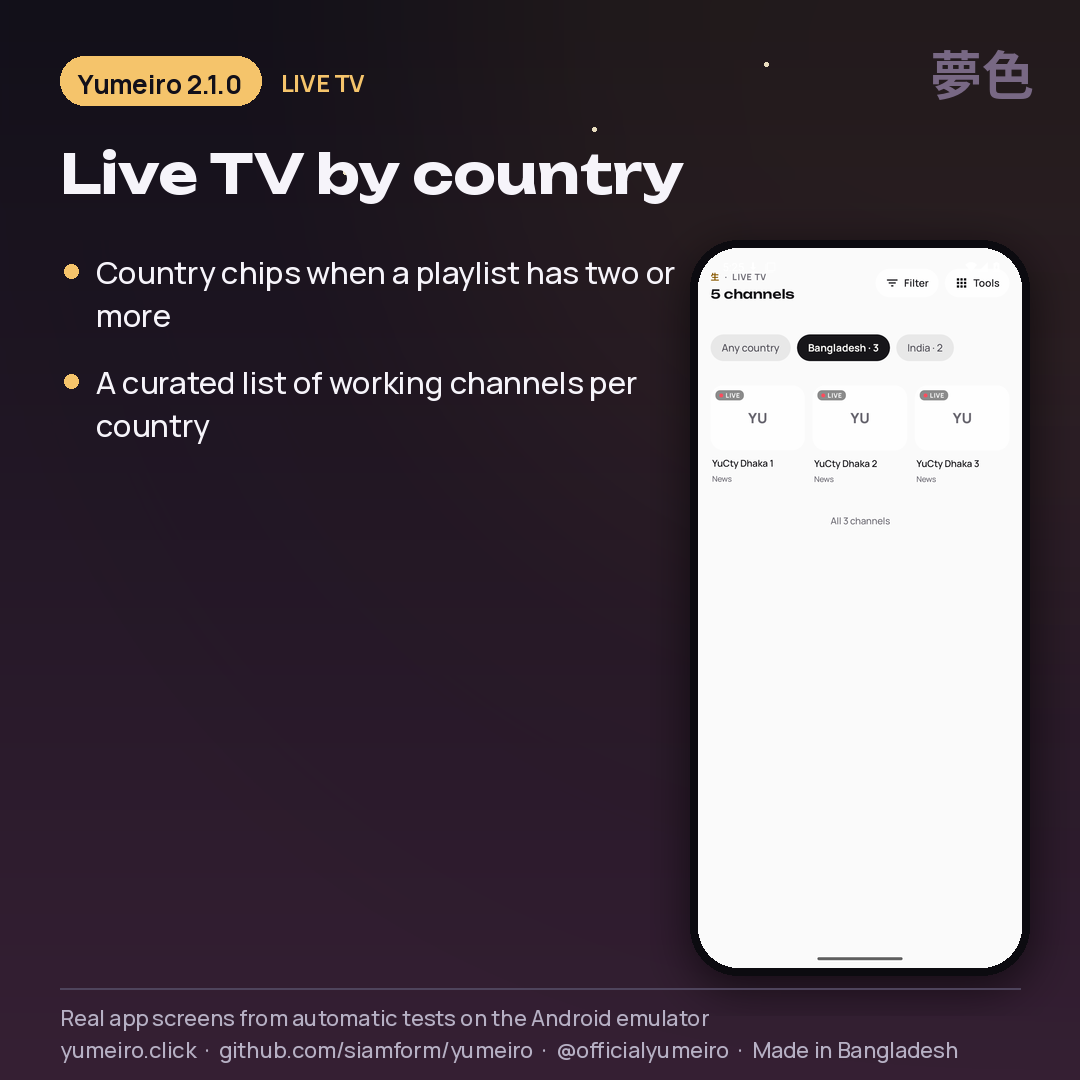
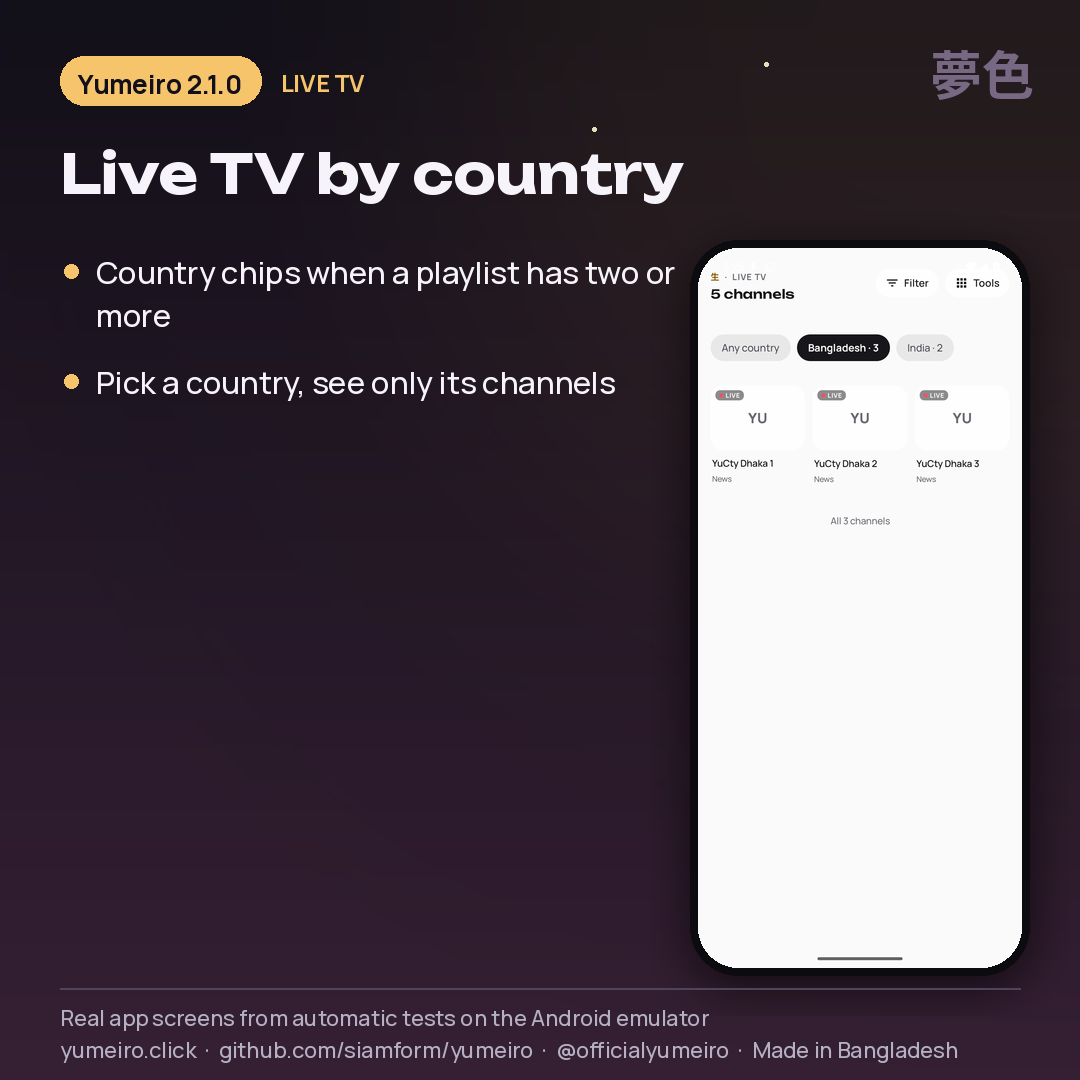
AUD-CLAIM-1/2: no curated Live TV or ABI-split claim in 2.1.0 notes, README and images
The curated per-country Live TV lists (E2) were never published, so they are
not in the app; the ABI split APKs (E3) are switched off. CHANGELOG.md, README
and the release image script now say only what ships; post-05 / square-05
bullet repainted. Audit findings AUD-CLAIM-1, AUD-CLAIM-2.

Changed region(s): [[0.0917, 0.3361, 0.5806, 0.4278]]

diff --git a/scripts/release_kit_210.py b/scripts/release_kit_210.py
@@ -181,7 +181,7 @@ P = [
     ("04-telegram", "Telegram", "Telegram has its own page",
      ["Add a public channel with @name or a t.me link", "TeraBox and DiskWala links in posts open in Yumeiro"], "telegram_page"),
     ("05-live-country", "Live TV", "Live TV by country",
-     ["Country chips when a playlist has two or more", "A curated list of working channels per country"], "live_country"),
+     ["Country chips when a playlist has two or more", "Pick a country, see only its channels"], "live_country"),
     ("06-profiles", "Profiles", "Every profile, really its own",
      ["Extensions, repositories, pins and reading per profile", "\"Forgot PIN\" uses security questions"], "whos_watching"),
     ("07-video", "Player", "Vertical player and a cleaner top bar",

diff --git a/docs/evidence/final/PER-COMMIT-2.1.0.md b/docs/evidence/final/PER-COMMIT-2.1.0.md
@@ -1,0 +1,251 @@
+# Per-commit list e47f450f (v2.0.0) .. dd4ae197 (audit start)
+
+Generated by the auditor from `git log` and `git show --name-only` (2026-11-22). 243 commits:
+{'code': 148, 'docs': 53, 'test': 42}. "code" = touches app/src/main, build files, workflows, server or scripts. Each code commit is matched to
+a ledger ID in docs/RELEASE-AUDIT-2.1.0.md section 3; this file is the raw list.
+
+| Commit | Date (UTC) | Subject | Kind | Code files | Test files | Doc files | IDs in subject |
+|---|---|---|---|---|---|---|---|
+| d072e4d8 | 2026-11-20 15:31 | fix(home): 18+ extension check no longer rebuilds the provider list per call (FREEZE-1) | code | 4 | 1 | 0 | FREEZE-1 |
+| c2966bde | 2026-11-20 16:07 | docs(handover): FREEZE-1 status, master-list audit, how to continue | docs | 0 | 0 | 4 | FREEZE-1 |
+| a22477d4 | 2026-11-20 16:14 | fix(manga): Continue reading and saved manga belong to the current profile (PROF-1) | code | 1 | 1 | 0 | PROF-1 |
+| 23558a22 | 2026-11-20 16:14 | feat(torrent): a raw info-hash becomes a magnet link (T-1) | code | 3 | 1 | 0 | T-1 |
+| a9da5356 | 2026-11-20 16:14 | docs(2.1.0): FREEZE-1 pass run, PROF-1 / T-1 rows, corrected S-1 and PIN-1 | docs | 0 | 0 | 3 | FREEZE-1, PIN-1, PROF-1, S-1 |
+| b59bb41b | 2026-11-20 16:15 | perf(extensions): the provider list is built once per change and shared (FREEZE-2) | code | 2 | 1 | 0 | FREEZE-2 |
+| 8c6e346c | 2026-11-20 16:17 | docs(evidence): 44771338763 superseded by 44771583525 | docs | 0 | 0 | 1 |  |
+| 08ff6e58 | 2026-11-20 16:17 | feat(manga): previous / next chapter and a next-chapter card in the reader (F-18) | code | 2 | 1 | 0 | F-18 |
+| e3536d8d | 2026-11-20 16:19 | feat(sites): Telegram and Websites are separate pages with their own entries (F-02 split) | code | 9 | 3 | 0 | F-02 |
+| 5a1c34f6 | 2026-11-20 16:21 | feat(live-tv): filter channels by country (master list: country filter) | code | 6 | 1 | 0 |  |
+| 1f08eebe | 2026-11-20 16:22 | feat(downloads): pick the quality in the download prompt (NF-2b quality picker) | code | 5 | 1 | 0 |  |
+| 74d608bd | 2026-11-20 16:24 | fix(yumix): remove the extra pinned-extension row from the feed (PIN-1) | code | 2 | 2 | 0 | PIN-1 |
+| 9a940f64 | 2026-11-20 16:24 | docs(2.1.0): ledger rows B-13..B-18, audit corrections (F-07, F-11, PIP-1), FREEZE-3 and B-3 findings | docs | 0 | 0 | 3 | B-13, B-18, B-3, F-07 |
+| ba87ce64 | 2026-11-20 16:27 | F-19: profile security questions replace the screen-lock bypass for Forgot PIN | code | 4 | 1 | 0 | F-19 |
+| 7c5896ee | 2026-11-20 16:28 | F-19 isolation: pinned extensions and Live TV playlist pins are per profile | code | 3 | 1 | 0 | F-19 |
+| 0fa711ce | 2026-11-20 16:29 | FREEZE-4: count Home / Yumix / Live TV draws into the freeze report trail | code | 6 | 1 | 0 | FREEZE-4 |
+| 3ec8a40c | 2026-11-20 16:30 | docs: ledger B-19..B-21, resume-here, handover for F-19 / FREEZE-4 | docs | 0 | 0 | 4 | B-19, B-21, F-19, FREEZE-4 |
+| bd3b4ca6 | 2026-11-20 16:31 | PIN-2: same extension name from two repositories shows both | code | 1 | 1 | 0 | PIN-2 |
+| a51d2bfb | 2026-11-20 16:31 | docs: PIN-2 fixed (B-22), resume-here | docs | 0 | 0 | 3 | B-22, PIN-2 |
+| ebebdb51 | 2026-11-20 16:32 | GATE-1: device test that fails on main-thread stalls with 300 providers | test | 0 | 1 | 0 | GATE-1 |
+| ab7cd874 | 2026-11-20 16:33 | RegexGuard: warm the new pattern holders off the main thread | code | 2 | 0 | 0 |  |
+| 26c3daa5 | 2026-11-20 16:34 | docs: CI results for B-10..B-13, ledger B-23/B-24, resume-here | docs | 0 | 0 | 2 | B-10, B-13, B-23, B-24 |
+| c3e65fc3 | 2026-11-20 16:40 | F-18: qualify MangaChapterNav in the manga reader (compile fix) | code | 1 | 0 | 0 | F-18 |
+| 28b093b7 | 2026-11-20 16:41 | docs: fail-before evidence for PROF-1 / FREEZE-2, head CI 44775798224 | docs | 0 | 0 | 2 | FREEZE-2, PROF-1 |
+| b9506e39 | 2026-11-20 17:22 | docs: CI 44775798224 green for B-11..B-24; GATE-1 device runs started | docs | 0 | 0 | 2 | B-11, B-24, GATE-1 |
+| 997090b0 | 2026-11-20 17:22 | docs: B-13 pass-after | docs | 0 | 0 | 1 | B-13 |
+| fe51ee79 | 2026-11-20 17:35 | GATE-1: sample the main thread's stack while it is stalled | test | 0 | 1 | 0 | GATE-1 |
+| c4f9861d | 2026-11-20 17:37 | GATE-1: control walk without providers (own class, logs only) | test | 0 | 1 | 0 | GATE-1 |
+| 287b8547 | 2026-11-20 18:02 | GATE-1: keep third-party starter extensions out of the gate; deeper stall samples | test | 0 | 1 | 0 | GATE-1 |
+| 069ddd99 | 2026-11-20 18:04 | B-25: search-only extensions no longer count as loading; short search-only card | code | 2 | 1 | 0 | B-25 |
+| 240e6463 | 2026-11-20 18:16 | GATE-1: measure the main thread on the real frame clock | test | 0 | 1 | 0 | GATE-1 |
+| 14e45b99 | 2026-11-20 18:30 | GATE-1 real clock: read the screen by walking the accessibility tree | test | 0 | 1 | 2 | GATE-1 |
+| c561e5a2 | 2026-11-20 18:31 | B-27: a screen released before its player attached no longer leaks a recorder count | code | 1 | 1 | 0 | B-27 |
+| 6fd31251 | 2026-11-20 18:41 | B-28: build YouTube Music requests off the main thread | code | 1 | 1 | 0 | B-28 |
+| 7669892e | 2026-11-20 18:59 | docs: GATE-1 real-clock pass 44795131763; B-25..B-28 ledger rows; resume here | docs | 0 | 0 | 3 | B-25, B-28, GATE-1 |
+| a761bd0f | 2026-11-20 19:50 | docs: CI 44797801824 green (pass-after B-25, B-27, B-28); cancelled run logged | docs | 0 | 0 | 3 | B-25, B-27, B-28 |
+| 077fad69 | 2026-11-20 21:25 | B-26: remove first-run starter extensions (owner decision) | code | 4 | 3 | 0 | B-26 |
+| 01f6ff63 | 2026-11-20 21:26 | B-29: TeraBox plays the full video through its share API, never the 30 s preview | code | 3 | 1 | 0 | B-29 |
+| ee70acfc | 2026-11-20 21:29 | B-29b: TeraBox AV1 originals play the H.264 transcode on phones without an AV1 decoder | code | 2 | 1 | 0 |  |
+| bf444f1d | 2026-11-20 21:29 | B-30: DiskWala links are checked and handed to the DiskWala app instead of a web page that never plays | code | 3 | 1 | 0 | B-30 |
+| 5872c41e | 2026-11-20 21:32 | docs: ledger B-26/B-29/B-30/B-31, owner decisions 2026-11-21, F-21 extension metadata rows and F-22 Upcoming f | docs | 0 | 0 | 3 | B-26, B-29, B-30, B-31 |
+| 758bb174 | 2026-11-20 21:42 | docs: B-32 extensions that load nothing (HindiSubAnime), owner rule to write requests into repo docs at once | docs | 0 | 0 | 3 | B-32 |
+| 166f719f | 2026-11-20 21:52 | B-29c: warm TeraBoxApi's pattern off the main thread (RegexGuard) | code | 1 | 0 | 0 |  |
+| 1e92bc33 | 2026-11-20 22:18 | B-30b: warm DiskWalaApi's pattern off the main thread (RegexGuard); ledger run IDs | code | 3 | 0 | 1 |  |
+| 326ab0ff | 2026-11-20 22:58 | docs: CI 44827815442 green on 1e92bc33 (B-26, B-29, B-30); Resume here updated | docs | 0 | 0 | 2 | B-26, B-29, B-30 |
+| 263cbac2 | 2026-11-21 04:58 | F-02 login prep: Telegram app id / hash reach BuildConfig from repo secrets | code | 4 | 0 | 0 | F-02 |
+| d1a868a7 | 2026-11-21 04:58 | docs: AGENT-START-HERE universal handover and resume prompt; discreet icon dropped; Telegram secrets stored | docs | 0 | 0 | 4 | AGENT-START-HERE |
+| fe8795f4 | 2026-11-21 05:39 | docs: reconcile handover after agent change; secrets set; ADR-052 Telegram on our own TDLib build | docs | 0 | 0 | 4 | ADR-052 |
+| 20dfac3e | 2026-11-21 05:40 | F-02 login: tdlib-build workflow builds TDLib 1.8.70 (JSON interface) for four ABIs | code | 2 | 0 | 0 | F-02 |
+| b9adc0ad | 2026-11-21 05:52 | F-02: Telegram login app code (TDLib JSON client, flag off) | code | 12 | 5 | 4 | F-02 |
+| eee51e4d | 2026-11-21 05:56 | docs: owner adds for F-02 (audio, download) and B-31 (always-ready engine) | docs | 0 | 0 | 3 | B-31, F-02 |
+| 88a6dcb6 | 2026-11-21 05:59 | F-02: engine pins, Telegram audio; docs: top-of-class goal | code | 4 | 2 | 4 | F-02 |
+| 214e797d | 2026-11-21 06:01 | F-02: download Telegram videos and audio | code | 4 | 2 | 2 | F-02 |
+| 40f339d7 | 2026-11-21 06:13 | F-02: engine download bar reaches 100 % | code | 1 | 1 | 1 | F-02 |
+| d444b1a0 | 2026-11-21 06:15 | F-02: device test for engine load and test-server sign-in | code | 1 | 1 | 0 | F-02 |
+| 9e8d8a73 | 2026-11-21 06:28 | F-02: device test methods return Unit | test | 0 | 1 | 0 | F-02 |
+| 5b72801c | 2026-11-21 06:30 | B-31: built-in torrent engine (Built, not tested, flag off) | code | 14 | 4 | 7 | B-31 |
+| 3f5c2f04 | 2026-11-21 06:40 | F-02: device runs install a build with the Telegram keys | code | 1 | 1 | 1 | F-02 |
+| f61e4141 | 2026-11-21 06:52 | F-02: a code typed right after the code screen appears is not dropped | code | 1 | 1 | 1 | F-02 |
+| 0989d828 | 2026-11-21 06:53 | B-31: device test for the built-in torrent engine | test | 0 | 1 | 1 | B-31 |
+| c0c0cc56 | 2026-11-21 07:05 | F-02: sign-in device test records every state and error it sees | test | 0 | 1 | 0 | F-02 |
+| fa5fc9de | 2026-11-21 07:06 | B-32: say why an extension's home is empty, with a fix button | code | 4 | 1 | 3 | B-32 |
+| 60e8d6df | 2026-11-21 07:10 | F-21: language chip and "N sources • ecosystem • repo" on every extension row | code | 7 | 1 | 4 | F-21 |
+| 2b286d6c | 2026-11-21 07:13 | B-31: read finished blocks of a partial piece; start before end; faster connects | code | 4 | 1 | 2 | B-31 |
+| e0c4e7b8 | 2026-11-21 07:15 | F-02: device test checks the sign-in round trip; full sign-in is OMT-63 | test | 0 | 1 | 3 | F-02, OMT-63 |
+| 706dee41 | 2026-11-21 07:18 | F-22: Upcoming date headers, air times, date-only days kept, category per profile | code | 4 | 1 | 3 | F-22 |
+| 787a7901 | 2026-11-21 07:20 | B-31: privacy notice before the built-in torrent engine plays | code | 3 | 2 | 2 | B-31 |
+| 23fad75d | 2026-11-21 07:22 | E3: per-processor APKs next to the universal one, behind a switch | code | 4 | 0 | 4 |  |
+| 18917728 | 2026-11-21 07:28 | E2: curated, probed Live TV per country, behind a switch | code | 5 | 0 | 4 |  |
+| e451b783 | 2026-11-21 07:30 | B-31: a seek drops the old window's overdue deadlines (B31-SEEK) | code | 3 | 1 | 2 | B-31, B31-SEEK |
+| b640f68d | 2026-11-21 07:33 | E4: Yumix loads extension homes fastest-first, failing ones last | code | 5 | 1 | 3 |  |
+| c0b6f29b | 2026-11-21 07:37 | docs: live handover file, owner rule to rewrite it every push | docs | 0 | 0 | 3 |  |
+| 4a58cb22 | 2026-11-21 07:39 | SPEED-1/2: saved homes and searches no longer queue behind live calls | code | 3 | 1 | 2 | SPEED-1 |
+| bf5caaec | 2026-11-21 07:40 | docs: record pass-after 44879288541 and fail-befores 44880384185, 44880511385 | docs | 0 | 0 | 2 |  |
+| 152bdc71 | 2026-11-21 07:41 | SPEED-3/4: fastest extensions load first; search no longer restarts | code | 4 | 2 | 2 | SPEED-3 |
+| 5c031c10 | 2026-11-21 07:43 | B-31: seek target first (B31-SEEK2) | code | 3 | 1 | 4 | B-31, B31-SEEK2 |
+| 6c7ab6c4 | 2026-11-21 07:46 | SPEED-T: device speed test for extension load, Home and search | code | 1 | 1 | 2 | SPEED-T |
+| 1be12ef2 | 2026-11-21 07:52 | SPEED-T1: SpeedCacheFirstTest uses newHomePageResponse | test | 0 | 1 | 3 | SPEED-T1 |
+| a9bd051f | 2026-11-21 07:53 | docs: device re-runs with the right class name | docs | 0 | 0 | 4 |  |
+| 1b8eee46 | 2026-11-21 07:58 | docs: fail-befores SPEED-3/4 and B31-SEEK2 verified | docs | 0 | 0 | 3 | B31-SEEK2, SPEED-3 |
+| 2dba1982 | 2026-11-21 08:07 | B31-SEEK3: torrent wait trace for device runs | code | 2 | 1 | 3 | B31-SEEK3 |
+| f37b4224 | 2026-11-21 08:12 | FE-1: show old saved homes at once; feed engine doc | code | 3 | 1 | 3 | FE-1 |
+| 8ad6e20b | 2026-11-21 08:13 | docs: FE-1 handover | docs | 0 | 0 | 2 | FE-1 |
+| e911b314 | 2026-11-21 08:15 | FE-7a/b: saved YouTube shelves and Music Home | code | 5 | 2 | 4 |  |
+| ea81371b | 2026-11-21 08:18 | FE-2: priority gate and dead-site budget | code | 4 | 2 | 4 | FE-2 |
+| 346a581c | 2026-11-21 08:21 | B31-SEEK3: download only the stream window | code | 6 | 2 | 5 | B31-SEEK3 |
+| cde0f909 | 2026-11-21 08:25 | FE-S1 + FE-3: empty search answers kept, first home row shows the extension | code | 3 | 2 | 4 | FE-3, FE-S1 |
+| 7d77a583 | 2026-11-21 08:27 | SPEED-T2: device speed test measures the Yumix feed pattern and YouTube cold start | test | 0 | 1 | 1 | SPEED-T2 |
+| 492bc741 | 2026-11-21 08:29 | FE-P: background feed steps back while playing | code | 6 | 1 | 4 | FE-P |
+| 53ad5d1d | 2026-11-21 08:32 | FE-2c: extension calls served by lane | code | 6 | 1 | 4 |  |
+| eaba0897 | 2026-11-21 08:34 | FE-5: background warm-up of saved homes | code | 4 | 1 | 4 | FE-5 |
+| 2206f81d | 2026-11-21 08:40 | FE-S2 + B31-SEEK4: search ranking off main; seek drops tail deadlines | code | 4 | 2 | 4 | B31-SEEK4, FE-S2 |
+| 10727309 | 2026-11-21 08:44 | B31-SEEK5: target piece alone until it has bytes; SPEED-T2 numbers | code | 3 | 1 | 6 | B31-SEEK5, SPEED-T2 |
+| c00d7051 | 2026-11-21 08:46 | FE-S3: recent search failure answered at once; Retry asks again | code | 3 | 1 | 4 | FE-S3 |
+| 59ac5467 | 2026-11-21 08:48 | FE-4a: Yumix mix rebuilt per frame, not per row answer | code | 3 | 1 | 4 |  |
+| a424d29c | 2026-11-21 08:49 | docs: pass-after 44884554686; fail-before FE-2c verified | docs | 0 | 0 | 4 |  |
+| 638e8a40 | 2026-11-21 08:51 | FE-S4: search timeout follows the site's own speed | code | 3 | 1 | 4 | FE-S4 |
+| e5bb8f01 | 2026-11-21 09:03 | FE-P-T: PauseWhilePlayingTest expected 4 jobs on a 3-permit gate | test | 0 | 1 | 4 | FE-P-T |
+| f3e1b02e | 2026-11-21 09:03 | docs: pass-after CI 44887743406 dispatched | docs | 0 | 0 | 1 |  |
+| 8a45594e | 2026-11-21 09:08 | docs: fail-befores verified for B31-SEEK4+5, FE-4a, FE-S4 | docs | 0 | 0 | 4 | B31-SEEK4, FE-S4 |
+| ad503cc2 | 2026-11-21 09:10 | FE-Q-CHK: device check across an in-place app update | code | 1 | 1 | 2 | FE-Q-CHK |
+| fadf8ded | 2026-11-21 09:13 | FE-4b: feed working set for 1000+ extensions | code | 3 | 1 | 2 |  |
+| 2ee0387d | 2026-11-21 09:14 | docs: handover rewritten (FE-4b, FE-Q-CHK, pending runs) | docs | 0 | 0 | 2 | FE-Q-CHK |
+| 1ead3c30 | 2026-11-21 09:26 | B31-SEEK5-T: TorrentBlocksTest follows the held-tail contract; FE-Q Pass | test | 0 | 1 | 3 | B31-SEEK5-T, FE-Q |
+| 049745cd | 2026-11-21 09:26 | docs: pass-after CI 44889594971 dispatched | docs | 0 | 0 | 1 |  |
+| e2b87521 | 2026-11-21 09:30 | E4-T: feed throttle on heat / low memory; FE-4b fail-before verified | code | 4 | 1 | 5 | E4-T |
+| e7d5dcd5 | 2026-11-21 10:07 | F-07-VIS: external players visible on Android 11+; DEV-CHK-21 device tests | code | 1 | 6 | 5 | DEV-CHK-21, F-07-VIS |
+| 49c4c60b | 2026-11-21 10:24 | F-07-RES: chooser hand-off asks for the position back; DEV-CHK-21-C import fix | code | 1 | 5 | 4 | DEV-CHK-21, F-07-RES |
+| 4c545255 | 2026-11-21 10:27 | FE-T1: startup memory trims on 2 GB phones no longer throttle the feed | code | 2 | 1 | 5 | FE-T1 |
+| 33c65f8d | 2026-11-21 10:46 | CI-DNS-RACE: a DNS setting saved while settings load is no longer overwritten | code | 1 | 1 | 4 | CI-DNS-RACE |
+| ff056fb7 | 2026-11-21 11:26 | DEV-CHK-21-T: fix the device-test faults; FE-S4 searches; record runs | test | 0 | 5 | 6 | DEV-CHK-21, FE-S4 |
+| 95c63a78 | 2026-11-21 11:45 | DEV-CHK-21-T2: record reruns, Nf1 reads rows by label, F-07 diagnostics | code | 1 | 2 | 5 | DEV-CHK-21, F-07 |
+| 63a20756 | 2026-11-21 11:49 | NBUG10-IME: hold an extension's own window while the user types | code | 3 | 1 | 4 | NBUG10-IME |
+| 6196d665 | 2026-11-21 12:03 | DEV-CHK-21-C2: Nf1 device test compile fix (duplicate rows) | test | 0 | 1 | 3 | DEV-CHK-21 |
+| b8381ce0 | 2026-11-21 12:21 | DEV-CHK-21-T3: Nf1 matches the short row label; F-07 test grants notifications first | code | 1 | 2 | 3 | DEV-CHK-21, F-07 |
+| a7bbd80e | 2026-11-21 12:32 | DEV-CHK-21-T4: F-07 device test grants the start-up permissions | test | 0 | 1 | 5 | DEV-CHK-21, F-07 |
+| 6b6cbe53 | 2026-11-21 13:01 | docs: F-07 and old-row device Pass, E1 master extension design | docs | 0 | 0 | 6 | F-07 |
+| 2ca65b33 | 2026-11-21 13:17 | docs: TV and phone device reruns Pass | docs | 0 | 0 | 4 |  |
+| 9bf4c90b | 2026-11-21 13:19 | test(F-10): Ao blue accent is drawn on the dark and light themes | test | 0 | 1 | 0 | F-10 |
+| b9a24717 | 2026-11-21 13:41 | docs: F-10 Blue verified on phones and TV, F-07 TV Pass | docs | 0 | 0 | 4 | F-07, F-10 |
+| 0288e8df | 2026-11-21 13:43 | test(F-12): swipe between Shorts on one shared player with a first-frame budget | code | 1 | 1 | 0 | F-12 |
+| f8acd0ce | 2026-11-21 13:45 | feat(F-12): YouTube-marked Shorts up to 3 min open the Shorts player; landscape clips fitted | code | 3 | 2 | 0 | F-12 |
+| aad61d93 | 2026-11-21 13:54 | docs: handover #3, F-12 built not tested, attribution and credential rules | docs | 0 | 0 | 3 | F-12 |
+| 3d4d780c | 2026-11-21 13:59 | fix(F-12): YouTube history is written on a background lane, not on the main thread | code | 5 | 1 | 0 | F-12 |
+| 93c73933 | 2026-11-21 13:59 | perf(F-12): one video view for the whole Shorts pager, moved with the page on screen | code | 2 | 1 | 0 | F-12 |
+| 8c304d4f | 2026-11-21 14:00 | docs: F-12 fail-befores valid, api36 pass-after Fail diagnosed (F12-HIST, F12-VIEW) | docs | 0 | 0 | 4 | F-12, F12-HIST, F12-VIEW |
+| a2222bf5 | 2026-11-21 14:19 | feat(F-12) F12-MODE: vertical mode for 9:16 videos in the normal player | code | 4 | 2 | 0 | F-12, F12-MODE |
+| 215fb53d | 2026-11-21 14:19 | feat(F-12) F12-CHROME: Shorts top bar and title hide when idle, a tap brings them back | code | 1 | 2 | 1 | F-12, F12-CHROME |
+| 7eb17931 | 2026-11-21 14:26 | fix(F-12) F12-LINT: mark ShortsWindow.resizeFor as a Media3 opt-in use | code | 1 | 0 | 0 | F-12, F12-LINT |
+| 4d8e22cf | 2026-11-21 14:36 | docs: F12-HIST and F12-VIEW Pass; F12-MODE, F12-CHROME, F12-LINT built | docs | 0 | 0 | 3 | F12-CHROME, F12-HIST, F12-LINT, F12-MODE |
+| bf534934 | 2026-11-21 14:58 | test(F-12) F12-TEST-CLING: mark Android's one-time full-screen notice seen before the Back check | test | 0 | 1 | 0 | F-12, F12-TEST-CLING |
+| c3ec754d | 2026-11-21 14:58 | test(F-12) F12-TEST-CLOCK: drive the Shorts chrome check on the compose test clock | test | 0 | 1 | 0 | F-12, F12-TEST-CLOCK |
+| 8a3e74a4 | 2026-11-21 15:13 | fix(NBUG-13) NBUG-13-PORT: an unreachable proxy whose port holds 407 is no longer called a login problem | code | 2 | 1 | 0 | NBUG-13, NBUG-13-PORT |
+| 0326916e | 2026-11-21 15:14 | docs: F12-MODE and F12-CHROME device Pass, F12-TEST-CLING / CLOCK, NBUG-13-PORT found and fixed | docs | 0 | 0 | 3 | F12-CHROME, F12-MODE, F12-TEST-CLING, NBUG-13-PORT |
+| 44a0244d | 2026-11-21 15:45 | docs: owner list OL-1..OL-10 (Website tab, stream bar, downloads, player buttons, Home shortcuts, navigation) | docs | 0 | 0 | 3 | OL-1, OL-10 |
+| 7e93879f | 2026-11-21 16:05 | feat(F-12) F-12-FLAG: turn f12_vertical_shorts on by default | code | 1 | 1 | 0 | F-12, F-12-FLAG |
+| 02dbbfbb | 2026-11-21 16:09 | fix(OL-8): website helper banner hides by itself after 3 s | code | 3 | 1 | 0 | OL-8 |
+| 1346cedb | 2026-11-21 16:11 | feat(OL-2): website stream panel gets Rescan, Collapse and Close | code | 3 | 1 | 0 | OL-2 |
+| 4fe266a4 | 2026-11-21 16:13 | fix(OL-3): website stream list keeps only the video playing now, with its title | code | 3 | 1 | 0 | OL-3 |
+| ae938183 | 2026-11-21 16:17 | fix(OL-1): websites stay open in the background and come back as they were | code | 6 | 2 | 0 | OL-1 |
+| 2d27529a | 2026-11-21 16:17 | fix(OL-3) OL-3-HOOK: name the first video even when the page hook lands late | code | 1 | 0 | 0 | OL-3, OL-3-HOOK |
+| f08c8c38 | 2026-11-21 16:19 | fix(OL-4): website and link downloads show the Offline / Permanent popup | code | 7 | 2 | 0 | OL-4 |
+| acf7f590 | 2026-11-21 16:21 | fix(OL-7): player top-bar buttons sit at the trailing edge, title takes the rest | code | 3 | 1 | 0 | OL-7 |
+| 123de693 | 2026-11-21 16:25 | feat(OL-9): Home Spaces "See more" opens Telegram, Profiles, stats, Airing soon, Reading, Inbox | code | 3 | 2 | 0 | OL-9 |
+| 91ee246c | 2026-11-21 16:25 | feat(OL-10): nav bar can pin Profiles, Your statistics, Airing soon, Reading and Tracking | code | 4 | 2 | 0 | OL-10 |
+| 95108c0c | 2026-11-21 16:46 | fix(OL-1-BUILD): website dialog compiles again (kept-page states) | code | 1 | 0 | 0 | OL-1-BUILD |
+| fc474be6 | 2026-11-21 16:49 | feat(OL-11): episode download sheet — This episode only + Episode range (from N to M) | code | 4 | 1 | 0 | OL-11 |
+| 5357dce2 | 2026-11-21 16:53 | feat(OL-12): Download playlist button on Online Music playlist / album pages | code | 6 | 1 | 0 | OL-12 |
+| 91667cdd | 2026-11-21 17:02 | feat(OL-5): downloader offers quality, audio track, Sub/Dub and subtitles | code | 12 | 1 | 0 | OL-5 |
+| 200ac136 | 2026-11-21 17:05 | docs: ledger OL-1..OL-12 + F-12-FLAG + NBUG-13-PORT, must-do statuses, OMT-64..69, handover | docs | 0 | 0 | 8 | F-12-FLAG, NBUG-13-PORT, OL-1, OL-12 |
+| 29e1977e | 2026-11-21 17:07 | fix(OL-7) OL-7-EDGE: player More button ends at the edge (4 dp app-bar padding) | code | 3 | 0 | 0 | OL-7, OL-7-EDGE |
+| ef213822 | 2026-11-21 17:09 | fix(OL-5) OL-5-HEIGHT: keep any height the stream offers (540p, 1440p) | code | 2 | 1 | 0 | OL-5, OL-5-HEIGHT |
+| b28af942 | 2026-11-21 17:11 | feat(OL-6): redesigned download popup (sheet on phones, dialog on TV) | code | 3 | 1 | 0 | OL-6 |
+| 068073af | 2026-11-21 17:14 | test(NF-2b/OL-5/OL-6): device test for the popup quality pick and layout | test | 0 | 1 | 0 | OL-5, OL-6 |
+| 71efd02d | 2026-11-21 17:17 | test(F-02/F-18/Country): device tests for Part 8 step 2 | test | 0 | 3 | 0 | F-02, F-18 |
+| c3486a97 | 2026-11-21 17:23 | test(OL-11) OL-11-T: range test checks episode numbers and real indices | test | 0 | 1 | 0 | OL-11, OL-11-T |
+| 197d8df1 | 2026-11-21 17:23 | fix(OL-12) OL-12-TOUCH: Download playlist button has a 48 dp touch area | code | 1 | 0 | 0 | OL-12, OL-12-TOUCH |
+| c1fb5652 | 2026-11-21 17:35 | fix(CI-DNS-RACE-2): an init from before a test reset no longer writes after it | code | 1 | 1 | 0 | CI-DNS-RACE |
+| 27bdae38 | 2026-11-21 17:52 | fix(OL-6) OL-6-REVEAL: opening "Where it goes and tips" scrolls the text into view | code | 1 | 0 | 0 | OL-6, OL-6-REVEAL |
+| b2e0e3a3 | 2026-11-21 17:52 | test(OL-5) OL-5-T2: subtitle option check scrolls to it like a person would | test | 0 | 1 | 0 | OL-5, OL-5-T2 |
+| 0f5f9fd1 | 2026-11-21 17:53 | ci(E2) E2-DRY: Live TV sync can curate and probe without publishing | code | 1 | 0 | 0 | E2-DRY |
+| 1ce6d8ca | 2026-11-21 18:33 | feat(OL-13): About shows every official Yumeiro account and the developer's own | code | 10 | 2 | 1 | OL-13 |
+| ddfb93a9 | 2026-11-21 18:34 | fix(OL-6) OL-6-REVEAL-2: the opened details really scroll into view | code | 1 | 0 | 0 | OL-6, OL-6-REVEAL |
+| 59537431 | 2026-11-21 18:36 | docs: OL-1..OL-12 results, OL-13 added, device fail-befores, E2 / E3 / F-02 evidence | docs | 0 | 0 | 6 | F-02, OL-1, OL-12, OL-13 |
+| be70b5a1 | 2026-11-21 18:39 | fix(PIN-1-DUP): at most 2 installed copies of one extension name | code | 2 | 1 | 0 | PIN-1-DUP |
+| db34daa4 | 2026-11-21 18:41 | test(GATE-1-ANR): the stall gate opens YouTube and fails on any ANR | test | 0 | 1 | 0 | GATE-1-ANR |
+| be56a8f5 | 2026-11-21 18:45 | feat(F-19-EXT): extensions and repositories belong to their profile | code | 5 | 1 | 0 | F-19-EXT |
+| 7e31dcfe | 2026-11-21 18:47 | test(FREEZE-4): Home must not redraw while Live TV plays | test | 0 | 1 | 0 | FREEZE-4 |
+| 4b6f255e | 2026-11-21 19:00 | feat(F-19-EXT-2): every source ecosystem belongs to its profile | code | 5 | 1 | 0 | F-19-EXT |
+| 0ea2b48f | 2026-11-21 19:04 | test(CI-DNS-RACE-3): DNS race tests wait for the app's start-up warm-up | test | 0 | 1 | 0 | CI-DNS-RACE |
+| 82270793 | 2026-11-21 19:09 | fix(GATE-1-VIDEOS-LOWRAM): a tab page's content composes one frame after the jump | code | 3 | 1 | 0 | GATE-1-VIDEOS |
+| 21d2b9d6 | 2026-11-21 19:09 | test(GATE-1-ANR-T2): the stall walk finds source-menu rows in the popup window | test | 0 | 1 | 0 | GATE-1-ANR |
+| c110658e | 2026-11-21 19:22 | test(GATE-1-ANR-T3): menu rows skip the pill's label at any depth; app windows only | test | 0 | 1 | 0 | GATE-1-ANR |
+| d7a6aea5 | 2026-11-21 19:24 | fix(GATE-1-VIDEOS-LOWRAM-2): Yumix shows its strip first, the feed one frame later | code | 1 | 0 | 0 | GATE-1-VIDEOS, LOWRAM-2 |
+| 1e358ea8 | 2026-11-21 19:35 | test(AIR-T1): the FCM wake check loads the inbox before counting | test | 0 | 1 | 0 | AIR-T1 |
+| 5ef15cde | 2026-11-21 19:36 | test(GATE-1-ANR-T4): every walk step checks it landed, one retry for a lost tap | test | 0 | 1 | 0 | GATE-1-ANR |
+| 269a46e5 | 2026-11-21 19:47 | test(GATE-1-ANR-T5): a missed tap names every candidate node and its bounds | test | 0 | 1 | 0 | GATE-1-ANR |
+| 8875c283 | 2026-11-21 20:00 | test(GATE-1-ANR-T6): log every tab jump and the pager page when a walk step misses | code | 1 | 1 | 0 | GATE-1-ANR |
+| 6222a201 | 2026-11-21 20:11 | test(OL-6-T): scroll to "Where it goes and tips" before tapping it | test | 0 | 1 | 0 | OL-6-T |
+| b53457bb | 2026-11-21 20:21 | test(GATE-1-ANR-T7): the gate walk reads the live accessibility tree | test | 0 | 1 | 0 | GATE-1-ANR |
+| 6a06eabe | 2026-11-21 20:36 | ci(GATE-1-TRACE): the gate walk runs under a Perfetto trace | code | 2 | 0 | 0 | GATE-1-TRACE |
+| 8c8eec69 | 2026-11-21 20:46 | ci(GATE-1-TRACE-2): gate trace keeps the whole walk (atrace only) | code | 1 | 0 | 0 | GATE-1-TRACE |
+| 768a5698 | 2026-11-21 20:50 | ci(GATE-1-ANR-T8): the harness fails a class on an input ANR under instrumentation | code | 1 | 0 | 0 | GATE-1-ANR |
+| 865bce1e | 2026-11-21 20:51 | ci(CI-MAVEN-404): review APK retries once on a dependency-resolution miss | code | 1 | 0 | 0 | CI-MAVEN-404 |
+| 17a02248 | 2026-11-21 20:59 | build(GATE-1-RENDER): Compose composition tracing in debug builds | code | 1 | 0 | 0 | GATE-1-RENDER |
+| dac2b0e0 | 2026-11-21 21:01 | docs: Part 8 step 5 results, GATE-1 findings (ANR-T8, RENDER), OL-6 / OL-13 closed, cancelled runs | docs | 0 | 0 | 5 | ANR-T8, GATE-1, OL-13, OL-6 |
+| a8f33c0e | 2026-11-21 21:12 | fix(GATE-1-RENDER): first-use GPU programs compile in idle frames after start | code | 3 | 1 | 0 | GATE-1-RENDER |
+| 87cd2fe5 | 2026-11-21 21:28 | GATE-1-ANR-T9: name the crash/ANR log line GATE_ANR_OR_CRASH | code | 1 | 0 | 0 | GATE-1-ANR |
+| 62102ae5 | 2026-11-21 21:28 | GATE-1-RENDER-2: Yumix opens with its sections added one per frame | code | 3 | 1 | 0 | GATE-1-RENDER |
+| 4b303e0d | 2026-11-21 21:29 | GATE-1-RENDER-3: drop the ineffective upload-thread warm-up | code | 1 | 0 | 0 | GATE-1-RENDER |
+| a4cc1379 | 2026-11-21 21:44 | GATE-1-T10: count the part of a stall before a screen read began | test | 0 | 1 | 0 | GATE-1-T10 |
+| d94a1852 | 2026-11-21 21:44 | GATE-1-TRACE-3: name Yumix feed sections in system traces | code | 1 | 0 | 0 | GATE-1-TRACE |
+| a1ebbdc8 | 2026-11-21 21:51 | GATE-1-TRACE-3b: feed trace sections without try/finally | code | 1 | 0 | 1 | GATE-1-TRACE |
+| 8fc1bc34 | 2026-11-21 22:07 | GATE-1-RENDER-4: posters load without a subcomposition each | code | 2 | 1 | 0 | GATE-1-RENDER |
+| 935875ed | 2026-11-21 22:21 | GATE-1-RENDER-5: extension threads run at background priority | code | 3 | 1 | 0 | GATE-1-RENDER |
+| 345d2572 | 2026-11-21 22:23 | GATE-1-T11: the gate also counts the app's own stall watchdog | code | 1 | 2 | 0 | GATE-1-T11 |
+| 1ee95cc3 | 2026-11-21 22:36 | GATE-1-TRACE-4: log the main thread's CPU and run-queue time for each long wait | test | 0 | 1 | 0 | GATE-1-TRACE |
+| f30cd6c5 | 2026-11-21 22:52 | GATE-1-RENDER-4b: a failed poster keeps its fallback; no request for a missing picture | code | 1 | 1 | 0 | GATE-1-RENDER |
+| b5535053 | 2026-11-21 23:09 | docs: GATE-1 render rows, GATE-1-EMU finding, OMT-72, handover | docs | 0 | 0 | 5 | GATE-1, GATE-1-EMU, OMT-72 |
+| 0270f069 | 2026-11-22 01:37 | GATE-1-RENDER-5b: every extension task starts at background priority | code | 1 | 1 | 0 | GATE-1-RENDER |
+| 8cb89e9b | 2026-11-22 01:41 | FF-LOAD: flags read without a context follow the saved file | code | 4 | 1 | 0 | FF-LOAD |
+| b847caa0 | 2026-11-22 01:41 | GATE-1-AB: one build runs the gate walk with the GATE-1 fixes off or on | code | 2 | 1 | 0 | GATE-1, GATE-1-AB |
+| 76a6e521 | 2026-11-22 01:44 | GATE-1-FTL: gate walk on real phones (Test Lab) or the owner's own device | code | 3 | 1 | 1 | GATE-1-FTL |
+| 5eba3335 | 2026-11-22 01:45 | docs: close GATE-1-RENDER-4/4b/T10/T11, rows RENDER-5b, FF-LOAD, GATE-1-AB, GATE-1-FTL, C5/C6, handover | docs | 0 | 0 | 5 | FF-LOAD, GATE-1-AB, GATE-1-FTL, GATE-1-RENDER |
+| 9da67d0c | 2026-11-22 02:14 | GATE-1-MUSIC-START: build the music player on the first music command | code | 3 | 2 | 0 | GATE-1-MUSIC |
+| e0ea47d6 | 2026-11-22 02:15 | docs: close RENDER-5b, FF-LOAD; GATE-1-AB 2 pairs; rows MUSIC-START, VIDEOS-COMPOSE; handover | docs | 0 | 0 | 3 | FF-LOAD, GATE-1-AB, MUSIC-START, VIDEOS-COMPOSE |
+| 45aac76a | 2026-11-22 02:38 | docs: read every doc by past agents; digest, stale-text fixes, new row B31-FRAME | docs | 0 | 0 | 9 | B31-FRAME |
+| 06200fc3 | 2026-11-22 02:51 | F-05-N: Nuvio scrapers as stream-only add-ons on a shared stream-merge seam (ADR-057) | code | 10 | 5 | 10 | ADR-057, F-05-N |
+| f46c3f22 | 2026-11-22 03:12 | GATE-1-MUSIC-START-2: keep the first song tap's track on a cold start | code | 1 | 1 | 4 | GATE-1-MUSIC, START-2 |
+| af354b96 | 2026-11-22 03:34 | docs: record fail-before runs for GATE-1-MUSIC-START-2 and F-05-N | docs | 0 | 0 | 4 | F-05-N, GATE-1-MUSIC, START-2 |
+| 2ab4f33f | 2026-11-22 04:02 | F-05-N-ERR: script errors show their message, not a bare stack frame | code | 4 | 1 | 4 | F-05-N |
+| cd0b256a | 2026-11-22 04:23 | GATE-1-QUIET: settle the emulator before the gate walk and log who uses the CPU | code | 2 | 0 | 4 | GATE-1-QUIET |
+| be0efc55 | 2026-11-22 04:56 | F-05-N-ON: Nuvio scrapers and stream add-ons on by default | code | 1 | 2 | 5 | F-05-N |
+| e109bece | 2026-11-22 04:56 | GATE-1-PREPARE-COLD: settle the CPU before the gate prepare start too | code | 1 | 0 | 2 | GATE-1-PREPARE |
+| 13094850 | 2026-11-22 05:09 | F-05-S: run SkyStream plugins (.sky) as sources (ADR-058, flag off) | code | 8 | 3 | 6 | ADR-058, F-05-S |
+| 31ea68be | 2026-11-22 06:06 | fix(gate1): stage late feed sections one per frame; release-day plan | code | 3 | 2 | 6 |  |
+| cafff732 | 2026-11-22 06:09 | docs(release): 2.1.0 changelog, full evidence changelog, manual test list, README fixes | code | 1 | 0 | 5 |  |
+| 4ef45dd9 | 2026-11-22 06:19 | Release kit 2.1.0: mockups, README images, social captions, changelog PDF script | code | 2 | 0 | 29 |  |
+| b5c61f85 | 2026-11-22 06:32 | F-05-S-ON: SkyStream repositories on by default (scripts_skystream) | code | 1 | 2 | 0 | F-05-S |
+| c11f0093 | 2026-11-22 06:33 | Ledger: F-05-S and GATE-1-FEED-LATE pass-after, F-05-S-ON row, X-1 verified | docs | 0 | 0 | 2 | F-05-S, GATE-1-FEED, X-1 |
+| 7c1ffce3 | 2026-11-22 06:34 | F-21: device check for the two-line extension label at font scale 2 | test | 0 | 1 | 0 | F-21 |
+| 5f60ccea | 2026-11-22 06:48 | F-05-STREMIO: stream-only Stremio add-ons give links for any title | code | 3 | 1 | 0 | F-05-STREMIO |
+| 2b6338b1 | 2026-11-22 06:48 | F-22-C: Upcoming Series by country, with a genre filter and badges | code | 4 | 1 | 0 | F-22-C |
+| c2560e07 | 2026-11-22 06:49 | Docs: F-05-STREMIO, F-22-C ledger rows, C5 / C6 mapping, OMT-75/76, changelog, handover | docs | 0 | 0 | 9 | F-05-STREMIO, F-22-C, OMT-75 |
+| 2a210e65 | 2026-11-22 06:50 | F-22-C: device check for Upcoming by country and genre | test | 0 | 1 | 0 | F-22-C |
+| 2dcb03df | 2026-11-22 06:55 | F-09-FEED: long press / Menu on Yumix feed, Top 10 and Continue watching | code | 4 | 1 | 6 | F-09-FEED |
+| 58c90cdc | 2026-11-22 06:56 | F-09-FEED: device test for Yumix, Top 10, Continue watching (phone + TV) | test | 0 | 1 | 0 | F-09-FEED |
+| bdcbd8e1 | 2026-11-22 07:14 | TV-FP-1: FeedPosition opens Home cards with the TV click on TV; ledger runs | test | 0 | 1 | 2 | TV-FP-1 |
+| 5269c051 | 2026-11-22 07:21 | B31-FRAME: first-frame and seek test in the app's player; ledger runs | test | 0 | 1 | 1 | B31-FRAME |
+| d8c997fe | 2026-11-22 07:32 | TV-FP-1: revert the TV click in FeedPosition; record Fail 5 of 6; OMT-78 | test | 0 | 1 | 3 | OMT-78, TV-FP-1 |
+| baa8c855 | 2026-11-22 07:33 | B31-FRAME: Blocked on emulator (no 10-bit HEVC decoder); OMT-79 | docs | 0 | 0 | 3 | B31-FRAME, OMT-79 |
+| 70e821bc | 2026-11-22 08:08 | DL-ONE: YouTube downloads use the shared download popup; E1/E2 all-in-one plan | code | 3 | 1 | 7 | DL-ONE |
+| 657cc01f | 2026-11-22 08:16 | DEX-REG-1: keep the video player under the 224-register budget | code | 1 | 0 | 2 | DEX-REG-1 |
+| cd252438 | 2026-11-22 08:23 | docs: owner rule 7 (queue first); new findings listed in the queue | docs | 0 | 0 | 3 |  |
+| 315e0e00 | 2026-11-22 08:25 | docs: manual tests OMT-75..80 in the 2.1 list; Live TV plan builds on the built E2 | docs | 0 | 0 | 6 | OMT-75 |
+| 5da2e5cd | 2026-11-22 08:26 | docs: DL-ONE fail-before valid (45001258208) | docs | 0 | 0 | 2 | DL-ONE |
+| 5f803345 | 2026-11-22 09:05 | docs: preview APK 45002048828 green; DL-ONE and DEX-REG-1 pass-after Pass | docs | 0 | 0 | 5 | DEX-REG-1, DL-ONE |
+| 832a53d6 | 2026-11-22 09:12 | TV-FP-1: Live TV from Home no longer ends on Music on old Android TV | code | 3 | 1 | 4 | TV-FP-1 |
+| 751b850d | 2026-11-22 09:16 | DL-WEB: a file link inside a website opens the shared download popup | code | 4 | 1 | 7 | DL-WEB |
+| a8f1ef0f | 2026-11-22 09:19 | ST-17-BACK: one Back always leaves a vertical video | code | 3 | 1 | 6 | ST-17-BACK |
+| 2d79e048 | 2026-11-22 09:42 | DL-WEB: a bare site address is not a file name | code | 1 | 0 | 3 | DL-WEB |
+| 60ff4359 | 2026-11-22 09:42 | Handover: pending runs 45008845576, 45008159007, 45006967759 | docs | 0 | 0 | 1 |  |
+| dd4ae197 | 2026-11-22 10:51 | Docs: TV-FP-1, DL-WEB, ST-17-BACK and ST-17 Pass; review APK 2d79e048 | docs | 0 | 0 | 7 | DL-WEB, ST-17, ST-17-BACK, TV-FP-1 |

diff --git a/docs/RELEASE-AUDIT-2.1.0.md b/docs/RELEASE-AUDIT-2.1.0.md
@@ -40,6 +40,8 @@ open
 
 | ID | Severity | Blocker | File:line | Root cause | Fix / deferral | Evidence |
 |---|---|---|---|---|---|---|
+| AUD-CLAIM-1 | High (false claim) | Yes (false changelog / README / image claim) | CHANGELOG.md:64, README.md:56, scripts/release_kit_210.py:184, post-05 / square-05 images, yumeiro-web lib/changelog.ts:38 | "A curated list of about 20 working channels per country (E2)" is announced, but the curated lists were never published (origin/streams has no curated/ files; repo variable YUMEIRO_CURATED_LIVE not set; CHANGELOG-FULL E2 row: "In-app part Blocked: needs the first publish") | Fixed: wording now "country filter in big playlists"; E2 listed under "Still being checked"; both images repainted; website PR #5 text fixed in the same step | `git ls-tree origin/streams` (no curated/), CHANGELOG-FULL.md:227, :292 |
+| AUD-CLAIM-2 | Medium | Yes (claim) | CHANGELOG.md "New" | "Smaller downloads per phone type (ABI split APKs) are ready" listed as new, but the switch (repo variable YUMEIRO_ABI_SPLITS) is off, so users get only the universal APK | Moved to "Still being checked" as "built, switched off" | release.yml:116-117, build.gradle.kts:108 |
 | AUD-TB-1 | Low | No | this file, OWN-10 first version | Auditor's own wrong measurement (no redirect follow) reported as TeraBox needing a human check | Corrected above with the re-measurement | curl logs 13:06 UTC |
 | AUD-AB-1 | Low | No | origin ab/*-before | 8 old fail-before branches still on origin (b27, b29, b30, freeze1, freeze2, gate1, prof1, t1) although the method says delete after | Delete after the owner's go (deleting is not reversible; listed in the checklist) | `git branch -r` |
 | AUD-DOC-1 | Low | No | brief / HANDOVER-LIVE.md | "44 commits" counted from b553505; base..HEAD is 243. HANDOVER-LIVE header 14:12 vs progress log 16:50, stale "Pending runs" lines | Docs fixed in this audit | `git rev-list --count e47f450f..dd4ae197` = 243 |

diff --git a/CHANGELOG.md b/CHANGELOG.md
@@ -61,17 +61,20 @@ docs/release-2.1/MANUAL-TESTS-2.1.md. The full list with every test run is docs/
   lists only the video playing now; downloads ask Offline / Permanent first; the helper note hides after 3 s
   (OL-1 to OL-4, OL-8).
 - Vertical swipe player for Shorts and for any portrait video (F-12).
-- Live TV: country filter, and a curated list of about 20 working channels per country (Country, E2).
+- Live TV: country filter in big playlists (Country).
 - Separate Telegram page (F-02).
 - Upcoming grouped by date, and Series by country (US, GB, JP, KR, IN and more, or Streaming) with a genre filter
   and country / genre badges, from TVmaze (F-22, F-22-C). Episode status on episode rows: Watched, minutes left, Fresh (NF-1).
 - More Home shortcuts and more pages you can put on the navigation bar (OL-9, OL-10).
 - About: Yumeiro on Discord, Facebook, Instagram, X, TikTok and Reddit, plus the developer's links (OL-13).
-- Smaller downloads per phone type (ABI split APKs) are ready in the build; the universal APK stays (E3).
 
 ### Still being checked (off or not proven yet)
 - Telegram sign-in (private channels and chats) is built but off until it is tested on a real phone (F-02 login).
 - The built-in torrent engine is built but off until its device checks pass.
+- Smaller downloads per phone type (ABI split APKs, E3) are built but switched off for this release; the universal
+  APK is the download.
+- Curated Live TV lists per country (E2) are built on the server side but not published yet, so they are not in the
+  app.
 - Real-phone checks the emulators cannot do (GPU frame times, real YouTube quality, download speed on a real
   network) are in the manual test list.
 

diff --git a/README.md b/README.md
@@ -53,7 +53,7 @@ Help test it: [docs/release-2.1/MANUAL-TESTS-2.1.md](docs/release-2.1/MANUAL-TES
 | **Websites that stay open** | One website tab stays open while a stream plays; the stream bar follows the video playing now. |
 | **More sources** | Nuvio scraper repositories add their streams to any title; TeraBox plays full files when you are signed in; DiskWala hands off to its app. |
 | **Vertical player** | Swipe through Shorts and any portrait video. |
-| **Live TV by country** | Country filter and a curated list of working channels. |
+| **Live TV by country** | Country filter in big playlists. |
 | **Your profiles, really yours** | Extensions, repositories, pins and reading are per profile; "Forgot PIN" uses security questions. |
 
 ## What's new in 2.0.0

diff --git a/docs/assets/release-2.1/README.md b/docs/assets/release-2.1/README.md
@@ -17,3 +17,7 @@ Every phone screen is a real app screen. Where each one comes from:
 
 Sizes: hero-readme 1600x800, banner-github 1280x640, og-website 1200x630, x 1600x900, posts 1080x1350,
 squares 1080x1080, story 1080x1920, changelog-card 1080x1350.
+
+2026-11-22 (release audit, AUD-CLAIM-1): post-05 and square-05 said "A curated list of working channels per country",
+but the curated lists (E2) are not published and not in the app. Only that bullet was repainted, with the script's own
+background (`bg()`) and font: "Pick a country, see only its channels". The script text matches; every other pixel is unchanged.
